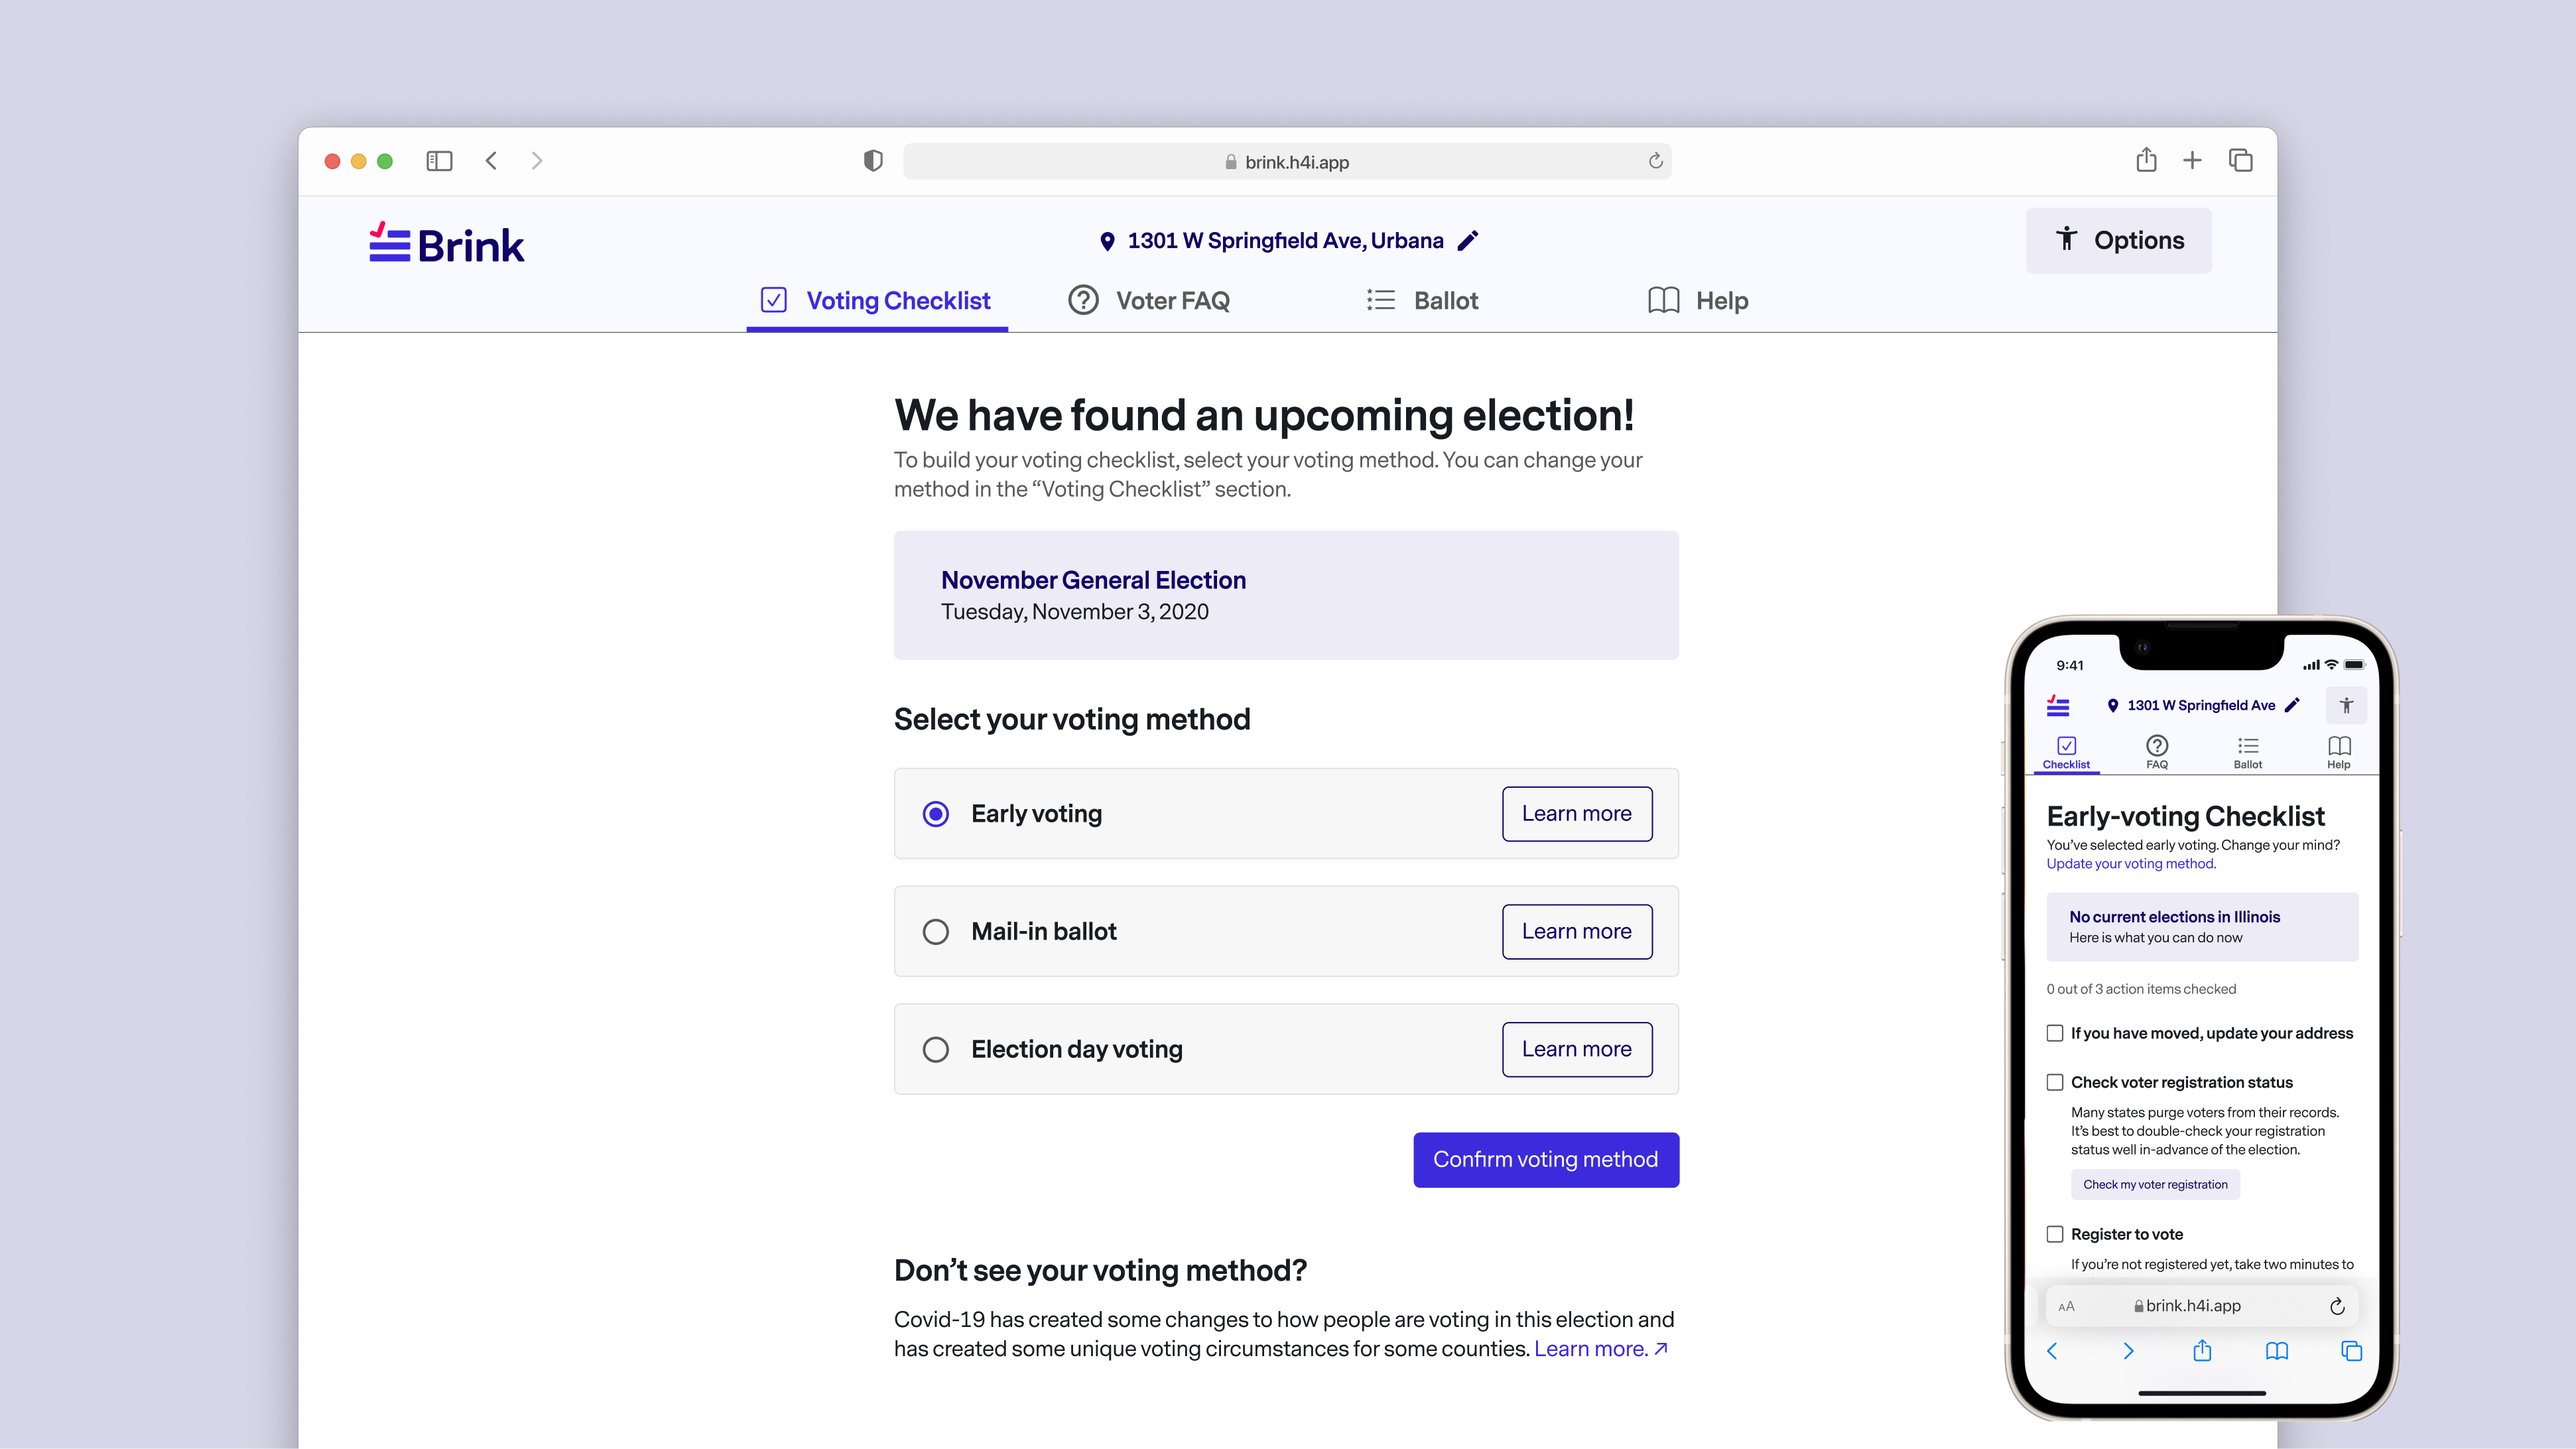
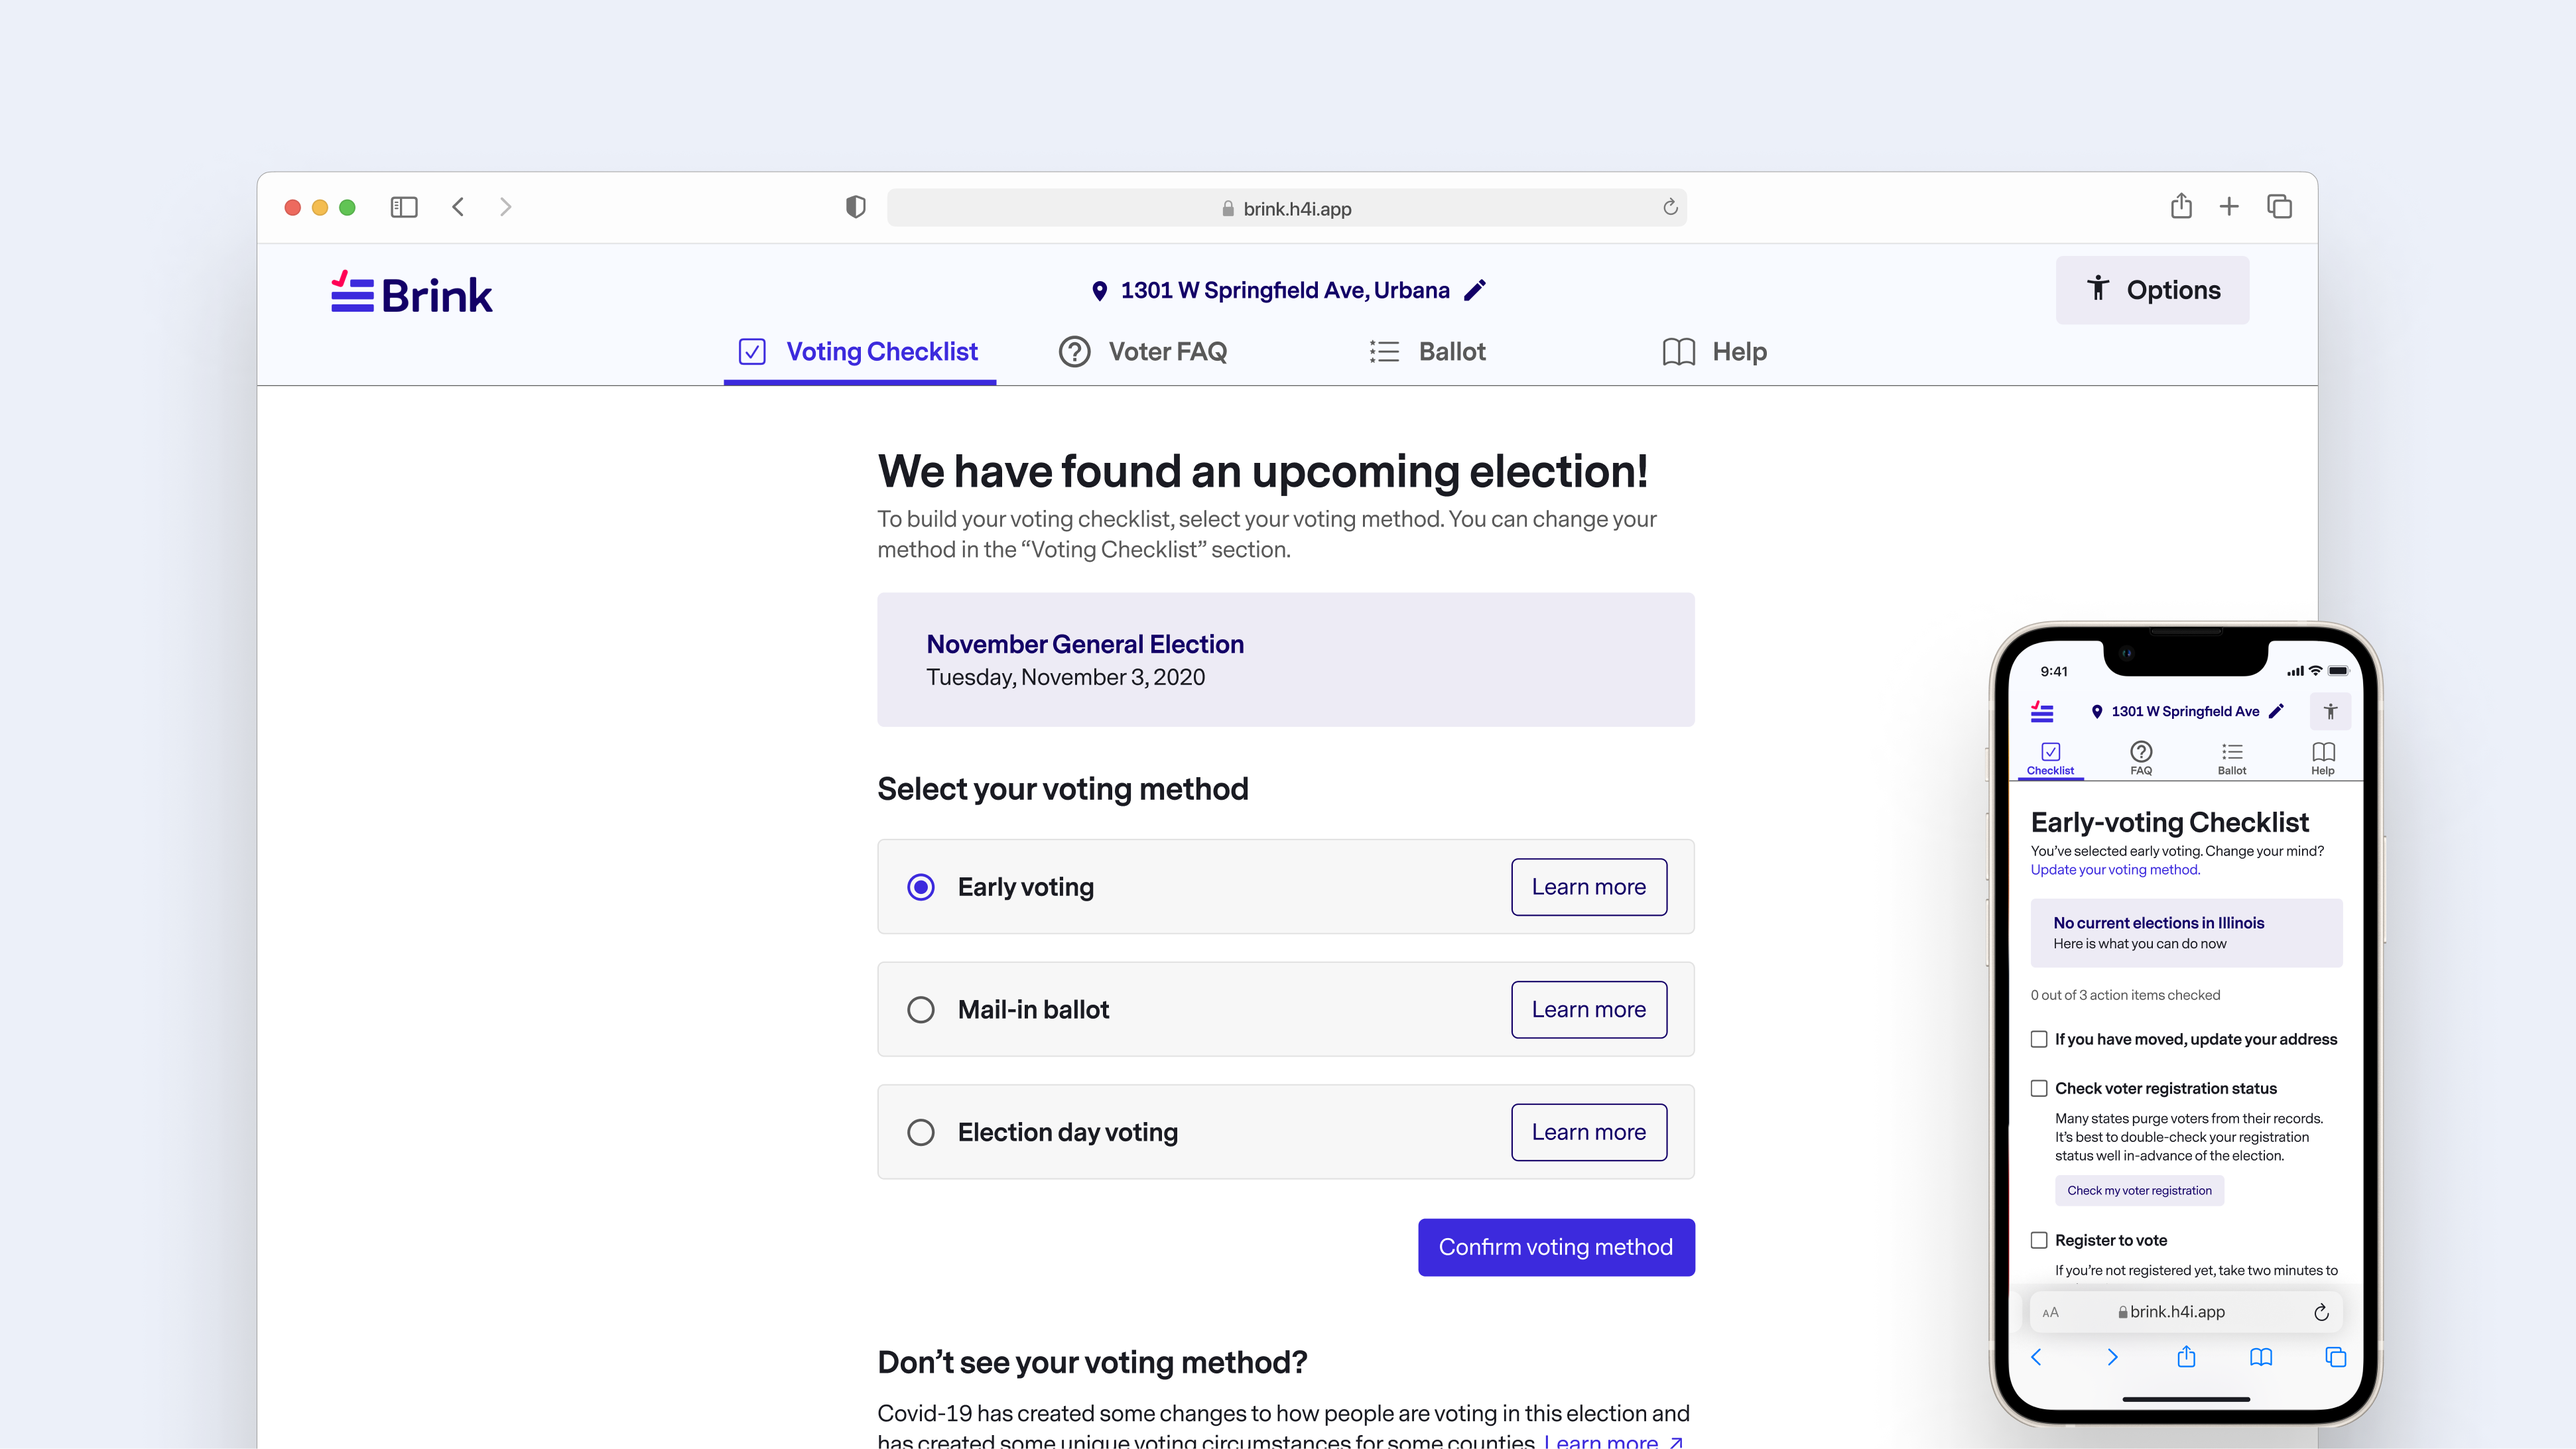
Update assets

diff --git a/src/index.css b/src/index.css
@@ -837,7 +837,7 @@ mark {
     padding-right: 7em;
     padding-bottom: 3em;
     /* background-color: #EBF0F3; */
-    background-color: #EBF0F3;
+    background-color: #F5F5F7;
     color: black;
 }
 
